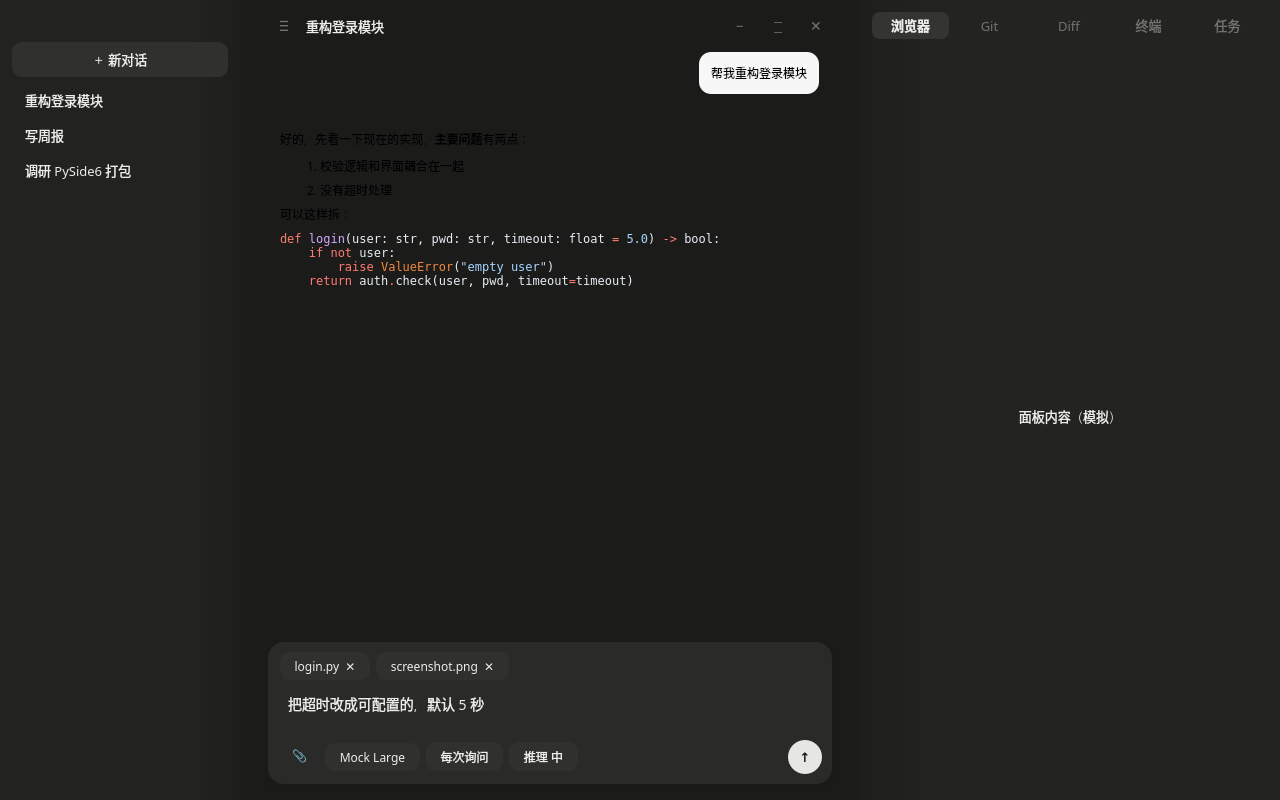
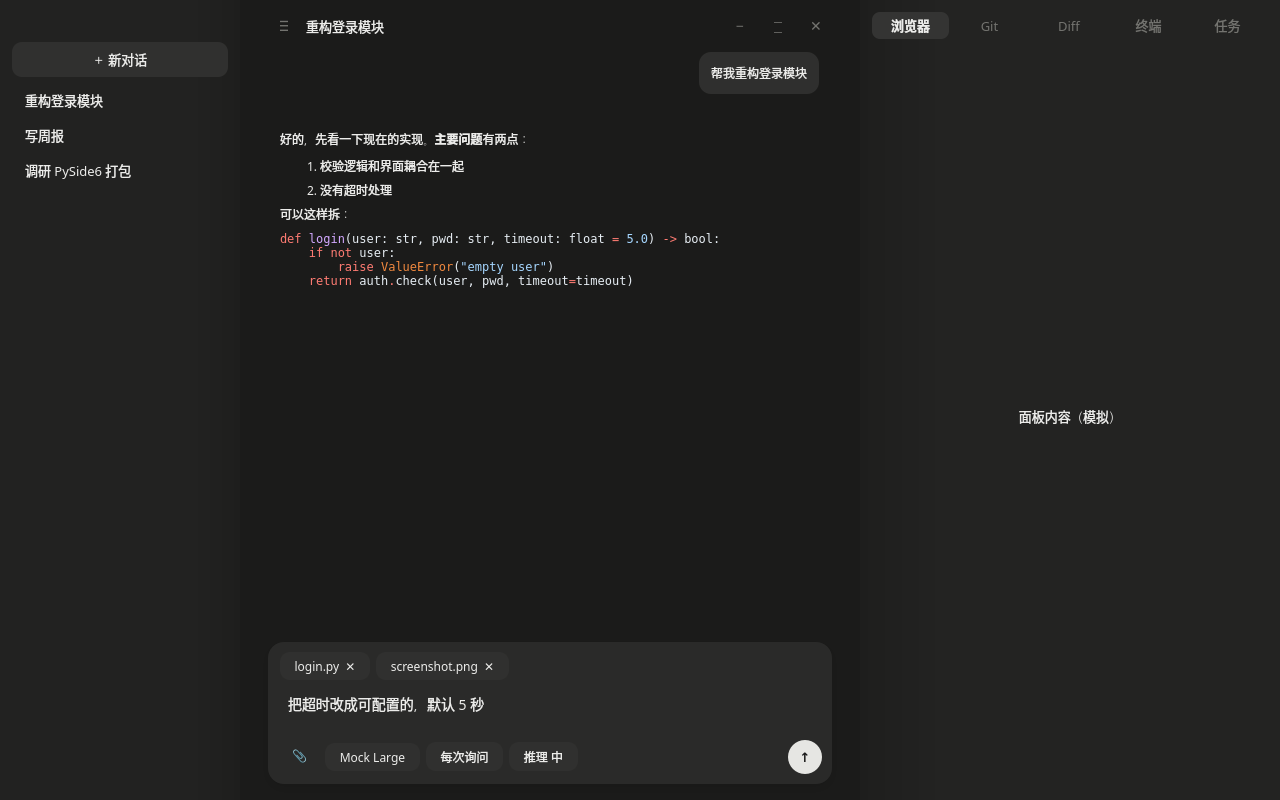
fix(chat-view): 深色主题下消息文字与用户气泡使用主题色；app 启动时同步 set_dark

Changed region(s): [[0.2188, 0.1562, 0.4062, 0.2812], [0.5312, 0.0625, 0.6562, 0.125]]

diff --git a/src/braid/ui/chat_view.py b/src/braid/ui/chat_view.py
@@ -23,10 +23,12 @@ from PySide6.QtCore import (
     Signal,
 )
 from PySide6.QtGui import (
+    QAbstractTextDocumentLayout,
     QColor,
     QGuiApplication,
     QMouseEvent,
     QPainter,
+    QPalette,
     QTextCharFormat,
     QTextCursor,
     QTextDocument,
@@ -44,6 +46,11 @@ MAX_WIDTH = 680  # 对话列最大宽度（设计偏差 B），居中
 PAD = 12
 ACTION_H = 24
 THROTTLE_MS = 50
+# 与 QSS 中 `*` 文字色、userBubble 底色保持一致（tokens.json）
+THEME = {
+    False: {"text": "#1F1F1E", "bubble": "#EFEFEE"},
+    True: {"text": "#ECECEA", "bubble": "#2F2F2E"},
+}
 
 
 @dataclass
@@ -293,10 +300,12 @@ class ChatDelegate(QStyledItemDelegate):
         pal = option.palette
         if item.role == "user":
             painter.setPen(Qt.PenStyle.NoPen)
-            painter.setBrush(pal.alternateBase())
+            painter.setBrush(QColor(THEME[self.dark]["bubble"]))
             painter.drawRoundedRect(bubble, 12, 12)
         painter.translate(bubble.x() + PAD, bubble.y() + PAD)
-        doc.drawContents(painter)
+        ctx = QAbstractTextDocumentLayout.PaintContext()
+        ctx.palette.setColor(QPalette.ColorRole.Text, QColor(THEME[self.dark]["text"]))
+        doc.documentLayout().draw(painter, ctx)
         painter.restore()
         if item.streaming:
             painter.fillRect(

diff --git a/src/braid/app.py b/src/braid/app.py
@@ -17,6 +17,7 @@ def main() -> int:
     theme = "dark" if "--dark" in sys.argv else "light"
     app.setStyleSheet(_qss(theme))
     w = MainWindow(MockBackend())
+    w.chat_view.set_dark(theme == "dark")
     w.show()
     tray = Tray(w)
     tray.show()
